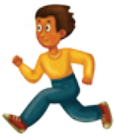
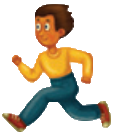
Added images of humans start items

diff --git a/ZitH/Classes/Game1.cs b/ZitH/Classes/Game1.cs
@@ -41,7 +41,7 @@ namespace ZitH
             BorisHD, MaximHD, NadyaHD, NastyaHD, SashaHD, //Humans HD
             Boss, Dog, Spider, Zombie, //Enemies
             Ak47, Axe, Crowbow, Gas, Grenade, HP, Key, Knife, Medkit, Pistol, RPG, Shotgun, Wood, //Items
-            KnifeHD, MedkitHD, PistolHD, //Items HD
+            KnifeHD, MedkitHD, PistolHD, RunSmall, /*Plus,*/ //Items HD
             Aim, RunImg, Sabre, Teeth, //Events
             Map; //Map
         private Vector2 position;
@@ -178,6 +178,8 @@ namespace ZitH
             RunImg = Content.Load<Texture2D>("img/Run");
             Sabre = Content.Load<Texture2D>("img/Sabre");
             Teeth = Content.Load<Texture2D>("img/Teeth");
+            RunSmall = Content.Load<Texture2D>("img/RunSmall");
+            //Plus = Content.Load<Texture2D>("img/Plus");
 
             Map = Content.Load<Texture2D>("img/Map");
         }
@@ -258,6 +260,15 @@ namespace ZitH
                     spriteBatch.Draw(HP, new Vector2(1920 / 2 - 612 - 102 + 204 - 36, 1080 / 2 - 275 + 33), Color.White);
                     spriteBatch.Draw(HP, new Vector2(1920 / 2 - 612 - 102 + 204 - 36 - 37, 1080 / 2 - 275 + 33), Color.White);
                     spriteBatch.Draw(HP, new Vector2(1920 / 2 - 612 - 102 + 204 - 36 - 37 - 37, 1080 / 2 - 275 + 33), Color.White);
+
+                    //Humans features
+                    spriteBatch.Draw(Knife, new Vector2(1920 / 2 - 612 - 51 + 20, 1080 / 2 + 51 - 30), Color.White);
+                    spriteBatch.Draw(Medkit, new Vector2(1920 / 2 - 306 - 51 + 20, 1080 / 2 + 51 - 30), Color.White);
+                    //spriteBatch.Draw(Medkit, new Vector2(1920 / 2 - 306 - 51 - 30, 1080 / 2 + 51 - 30), Color.White);
+                    //spriteBatch.Draw(Plus, new Vector2(1920 / 2 - 306 - 30, 1080 / 2 + 6), Color.White);
+                    //spriteBatch.Draw(HP, new Vector2(1920 / 2 - 306 + 80 - 30, 1080 / 2 + 30), Color.White);
+                    spriteBatch.Draw(Pistol, new Vector2(1920 / 2 - 102 + 51 + 20, 1080 / 2 + 51 - 30), Color.White);
+                    spriteBatch.Draw(RunSmall, new Vector2(1920 / 2 + 306 + 51 - 90, 1080 / 2 + 51 - 30), Color.White);
 
                     core.ui.CardSelection();
                     break;
